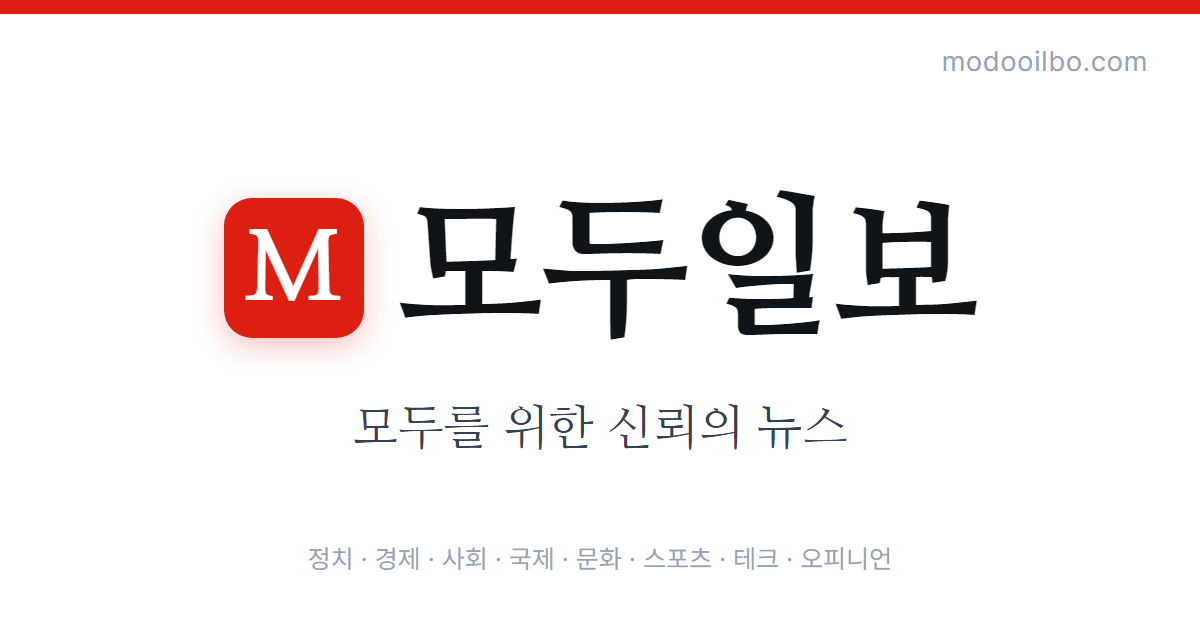
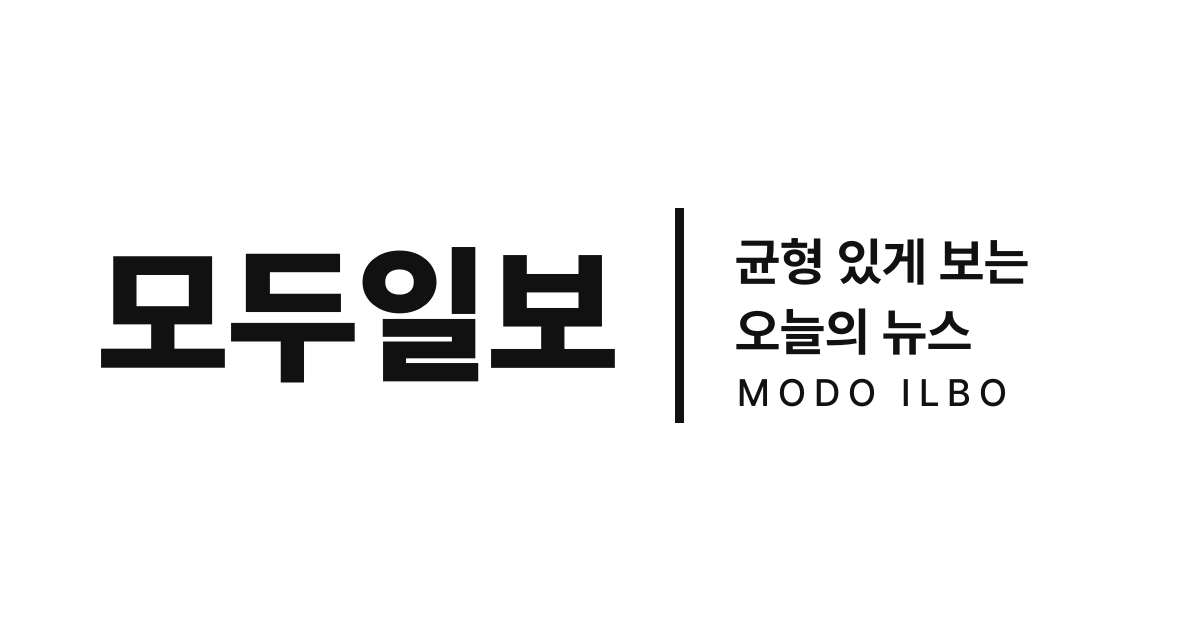
새 심플 로고 적용(가로 워드마크·OG) + 홈 밀도 리스트 행 높이 통일
- 헤더: 코덱스 심플패키지 wordmark_only 1200x400 투명(1순위 권장안), h-9/10
- OG 기본 이미지: logo_og_horizontal_final 1200x630
- list variant: 제목 2줄·요약 2줄 min-h 고정 → 2열 섹션 행 정렬

diff --git a/src/components/ArticleCard.tsx b/src/components/ArticleCard.tsx
@@ -128,7 +128,7 @@ export function ArticleCard({
         <div className="min-w-0 flex-1">
           <h3
             className={cn(
-              "text-[15px] font-semibold leading-snug text-ink-900 dark:text-white",
+              "min-h-[2.75em] text-[15px] font-semibold leading-snug text-ink-900 dark:text-white", // 2줄 공간 고정 — 두 열 나란히 설 때 행 어긋남 방지
               headingClassName,
             )}
           >
@@ -137,7 +137,7 @@ export function ArticleCard({
             </Link>
           </h3>
           {showSummary && (
-            <p className="clamp-2 mt-1 hidden text-[13px] leading-relaxed text-ink-500 dark:text-ink-400 sm:block">
+            <p className="clamp-2 mt-1 hidden min-h-[3.25em] text-[13px] leading-relaxed text-ink-500 dark:text-ink-400 sm:block">
               {article.summary}
             </p>
           )}

diff --git a/src/components/Header.tsx b/src/components/Header.tsx
@@ -29,7 +29,7 @@ function Logo({ className }: { className?: string }) {
   return (
     <Link prefetch={false} href="/" className={cn("flex items-center", className)} aria-label="모두일보 홈">
       {/* 정식 로고(코덱스 BW 시안 02 워드마크) — 무채색이라 다크모드는 invert 반전 */}
-      <Image src="/logo.png" alt="모두일보" width={900} height={900} priority className="h-11 w-auto dark:invert sm:h-12" />
+      <Image src="/logo.png" alt="모두일보" width={1200} height={400} priority className="h-9 w-auto dark:invert sm:h-10" />
     </Link>
   );
 }